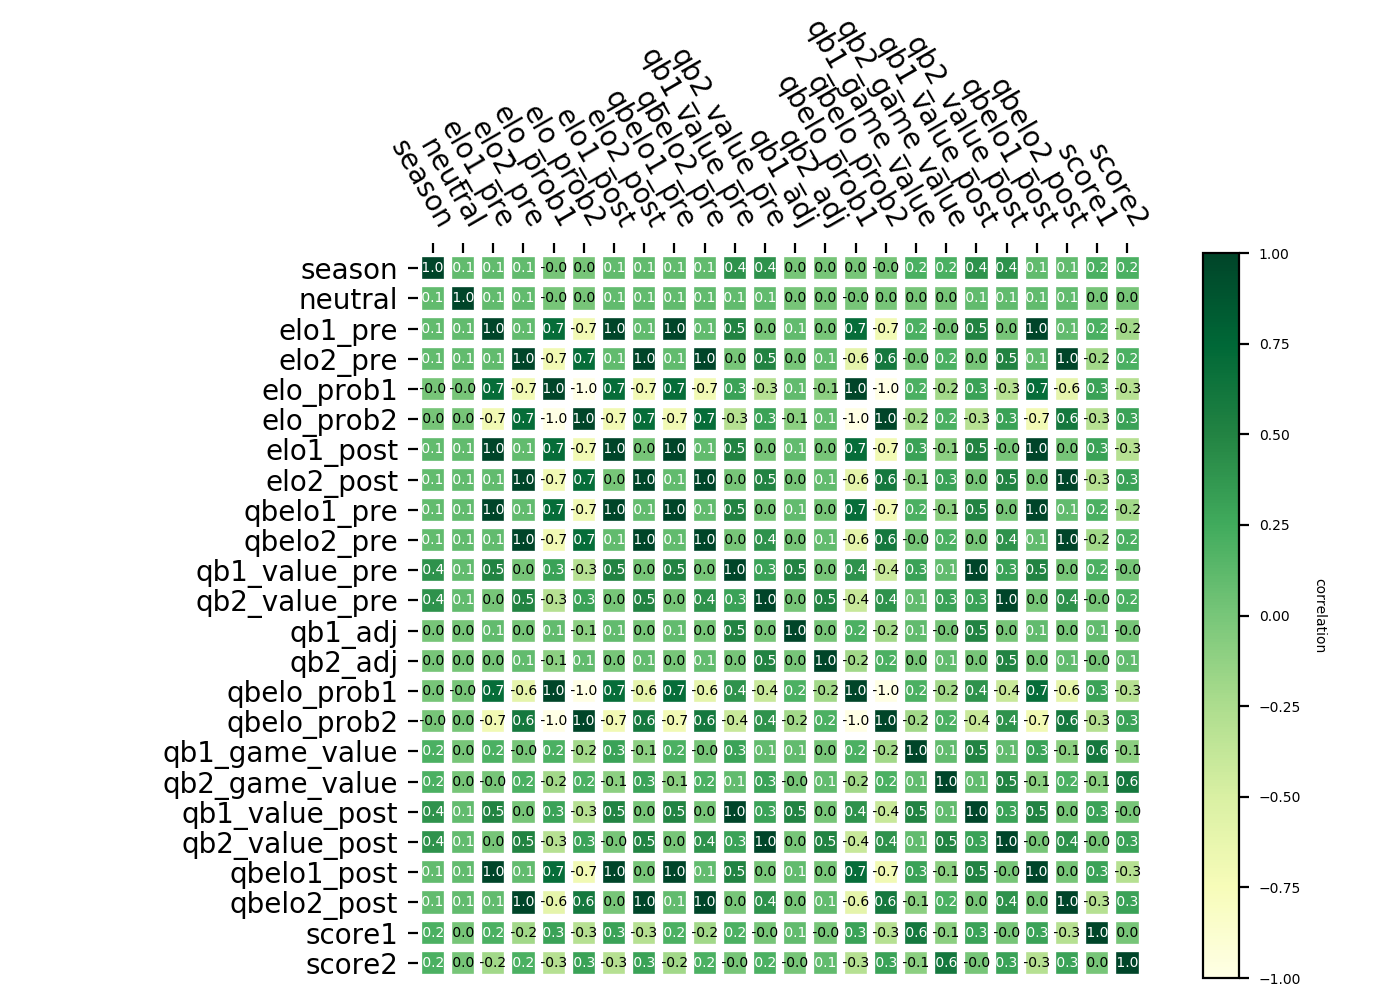
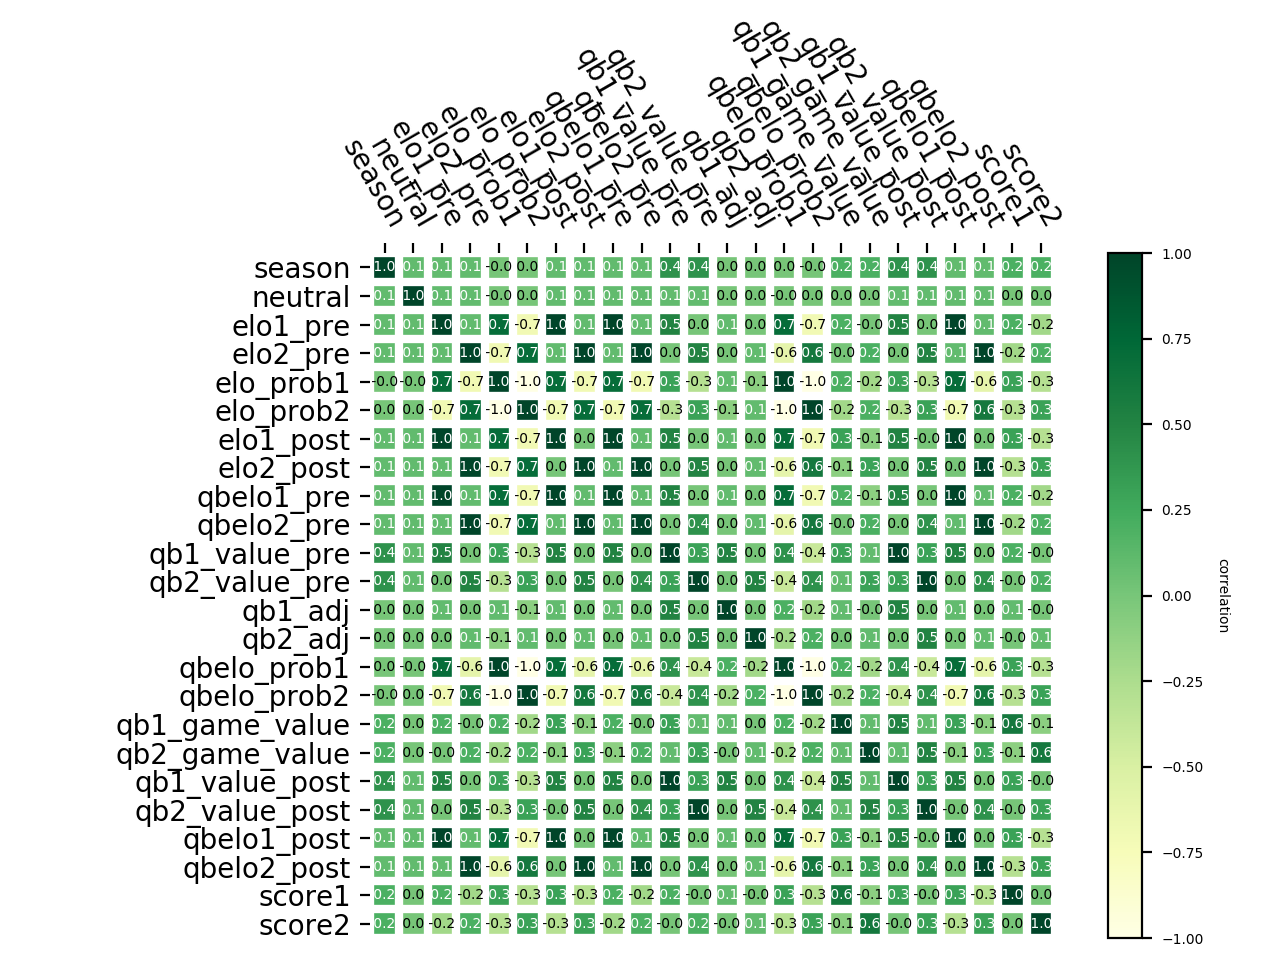
add eda portion for milestone 2

diff --git a/src/eda.py b/src/eda.py
@@ -1,0 +1,106 @@
+""" Runs classification model on the cleaned data to get the accuarcy on the test results
+
+Usage: src/eda.py --source=<source> --correlation=<correlation> --elo_win=<elo_win> --eda_score=<eda_score>
+
+"""
+
+import numpy as np
+import pandas as pd
+import matplotlib.pyplot as plt
+from matplotlib.pyplot import figure
+from numpy.polynomial.polynomial import polyfit
+import heatmap_func as hp
+from docopt import docopt
+
+opt = docopt(__doc__)
+
+def main(source, correlation, elo_win, eda_score):
+  # source = "../data/elo_historic_raw.csv"
+  df = pd.read_csv(source).set_index("Unnamed: 0")
+  
+  corr = df.corr()
+  ylabels = list(corr.index)
+  xlabels = list(corr.columns)
+  
+  corr_arr = np.array(corr)
+  corr_arr = np.round(corr_arr, 1)
+  
+  fig, ax = plt.subplots()
+  plt.rcParams["figure.figsize"] = [500, 500]
+  plt.rcParams.update({'font.size': 5})
+  
+  im, cbar = hp.heatmap(corr_arr, ylabels, xlabels, ax=ax,
+                     cmap="YlGn", cbarlabel="correlation")
+  texts = hp.annotate_heatmap(im, valfmt=" {x:.1f} ")
+  
+  fig.tight_layout()
+  # correlation = '../img/eda-heatmap_for_correlations.png'
+  fig.savefig(correlation, dpi=200)
+  # plt.show()
+  
+  eda_cols = ['season', 'playoff', 'elo1_pre', 'elo2_pre', 'elo_prob1', 'elo_prob2', 'elo1_post', 'elo2_post', 'qbelo1_pre', 'qbelo2_pre', 'qbelo_prob1', 'qbelo_prob2', 'score1', 'score2']
+
+  df_table = df[eda_cols]
+  df_table['decade'] = (df_table["season"]//10)*10
+  df_xs_reg = df_table.query('season > 1969 & season < 2019')
+  df_xs_reg.loc[:, 'elo_diff'] = df_xs_reg['elo1_pre'] - df_xs_reg['elo2_pre']
+  df_xs_reg.loc[:, 'score_diff'] = df_xs_reg['score1'] - df_xs_reg['score2']
+  df_xs_reg.loc[:, 'is_winner'] = np.where(df_xs_reg['score_diff'] > 0, 1, 0)
+  df_xs_reg.loc[:, 'elo_change_aftergame'] = df_xs_reg['elo1_post'] - df_xs_reg['elo1_pre']
+  
+  conditions = [
+    (df_xs_reg['elo_diff'] > 0) & (df_xs_reg['score_diff'] > 0),
+    (df_xs_reg['elo_diff'] < 0) & (df_xs_reg['score_diff'] > 0),
+    (df_xs_reg['elo_diff'] > 0) & (df_xs_reg['score_diff'] < 0),
+    (df_xs_reg['elo_diff'] < 0) & (df_xs_reg['score_diff'] < 0),
+    (df_xs_reg['elo_diff'] < 0) & (df_xs_reg['score_diff'] == 0),
+    (df_xs_reg['elo_diff'] > 0) & (df_xs_reg['score_diff'] == 0)
+  ]
+  choices = [
+    'high_elo_win', 'low_elo_win', 'high_elo_lose', 'low_elo_lose', 'low_elo_tie', 'high_elo_tie'
+  ]
+  df_xs_reg['elo_vs_result'] = np.select(conditions, choices, default = 'not_sure')
+  print("** Start doing warn")
+  elo_vs_result = df_xs_reg.groupby('elo_vs_result')['elo_vs_result'].count()
+  # elo_win = ../data/eda-elo_vs_result.csv
+  elo_vs_result.to_csv(elo_win, header = False)
+  
+  print("** finish saving csv")
+  
+  df_xs_reg = df_table.query('season > 1969 & season < 2019')
+  df_xs_reg.loc[:, 'elo_diff'] = df_xs_reg['elo1_pre'] - df_xs_reg['elo2_pre']
+  df_xs_reg.loc[:, 'score_diff'] = df_xs_reg['score1'] - df_xs_reg['score2']
+  df_xs_reg.loc[:, 'is_winner'] = np.where(df_xs_reg['score_diff'] > 0, 1, 0)
+  df_xs_reg.loc[:, 'elo_change_aftergame'] = df_xs_reg['elo1_post'] - df_xs_reg['elo1_pre']
+  df_xs_reg
+  
+  print("** finish wrangling")
+  
+  x = np.array(df_xs_reg['elo_diff'])
+  y = np.array(df_xs_reg['score_diff'])
+  y0, m = polyfit(x, y, 1)
+  
+  x2 = np.array(df_xs_reg['elo_change_aftergame'])
+  y2 = np.array(df_xs_reg['score_diff'])
+  c2 = np.array(df_xs_reg['is_winner'])
+  
+  print("** ready to plot")
+  fig2, ax = plt.subplots()
+  plt.rcParams["figure.figsize"] = [200, 200]
+  ax.scatter(x, y, alpha = 0.2)
+  ax.plot(x, y0 + m * x, color='red')
+  print("** here i am")
+  ax.set(xlabel='difference in ELO', 
+          ylabel='difference in score', title = 'Score vs pre-game ELO')
+  # ax.legend()
+  # ax.grid()
+  # fig2.tight_layout()
+  # eda_score = "../img/eda-score_vs_pregame_elo.png"
+  print("** ready to save")
+  fig2.savefig(eda_score, dpi = 200)
+  print("** plot saved")
+  # plt.show()
+  
+  
+if __name__ == "__main__":
+    main(opt["--source"], opt["--correlation"], opt["--elo_win"], opt["--eda_score"])

diff --git a/src/milestone2_report_EDAportion.md b/src/milestone2_report_EDAportion.md
@@ -1,0 +1,89 @@
+Milestone 2 Report - EDA Portion
+================
+
+``` python
+import numpy as np
+import pandas as pd
+import matplotlib.pyplot as plt
+from matplotlib.pyplot import figure
+from numpy.polynomial.polynomial import polyfit
+import heatmap_func as hp
+from numpy import genfromtxt
+```
+
+# Exploratory data analysis (EDA)
+
+Looking at data about sports games is always exciting, and our first
+step is to have a better understanding of what it can tell.
+
+## The information about columns
+
+We first look into the structure of the table. It has 30 columns as
+below. As our goal is to predict the result of a game, the post-game
+features might not be needed.
+
+    ## <class 'pandas.core.frame.DataFrame'>
+    ## Int64Index: 16541 entries, 0 to 16540
+    ## Data columns (total 30 columns):
+    ## date              16541 non-null object
+    ## season            16541 non-null int64
+    ## neutral           16541 non-null int64
+    ## playoff           577 non-null object
+    ## team1             16541 non-null object
+    ## team2             16541 non-null object
+    ## elo1_pre          16541 non-null float64
+    ## elo2_pre          16541 non-null float64
+    ## elo_prob1         16541 non-null float64
+    ## elo_prob2         16541 non-null float64
+    ## elo1_post         16540 non-null float64
+    ## elo2_post         16540 non-null float64
+    ## qbelo1_pre        14378 non-null float64
+    ## qbelo2_pre        14378 non-null float64
+    ## qb1               14379 non-null object
+    ## qb2               14379 non-null object
+    ## qb1_value_pre     14379 non-null float64
+    ## qb2_value_pre     14379 non-null float64
+    ## qb1_adj           14379 non-null float64
+    ## qb2_adj           14379 non-null float64
+    ## qbelo_prob1       14379 non-null float64
+    ## qbelo_prob2       14379 non-null float64
+    ## qb1_game_value    14378 non-null float64
+    ## qb2_game_value    14378 non-null float64
+    ## qb1_value_post    14378 non-null float64
+    ## qb2_value_post    14378 non-null float64
+    ## qbelo1_post       14378 non-null float64
+    ## qbelo2_post       14378 non-null float64
+    ## score1            16540 non-null float64
+    ## score2            16540 non-null float64
+    ## dtypes: float64(22), int64(2), object(6)
+    ## memory usage: 3.9+ MB
+
+## Correlation between columns
+
+As the interest is in finding a predictor for scores, we look into the
+correlation between different columns.
+![](../img/eda-heatmap_for_correlations.png)
+
+## How ELO relates to game result
+
+Because of the major rule change effective in 1970, we removed data
+points before 1970 and count ELO’s relationship with game results.
+
+    ##             type  count
+    ## 0  high_elo_lose   1686
+    ## 1   high_elo_tie     28
+    ## 2   high_elo_win   4193
+    ## 3   low_elo_lose   3200
+    ## 4    low_elo_tie     25
+
+    ## The number of total games is 11725.  Among them, higher ELO before the game results in 4193 wins.
+
+    ## This translates to about 0.358 of winning rate
+
+## Plot for season games
+
+Below is the plot for comapring game results to ELO.
+![](../img/eda-score_vs_pregame_elo.png)
+
+We also found that winning or losing a game does affect ELO.
+![](../img/eda-ELO_change_with_result.png)
